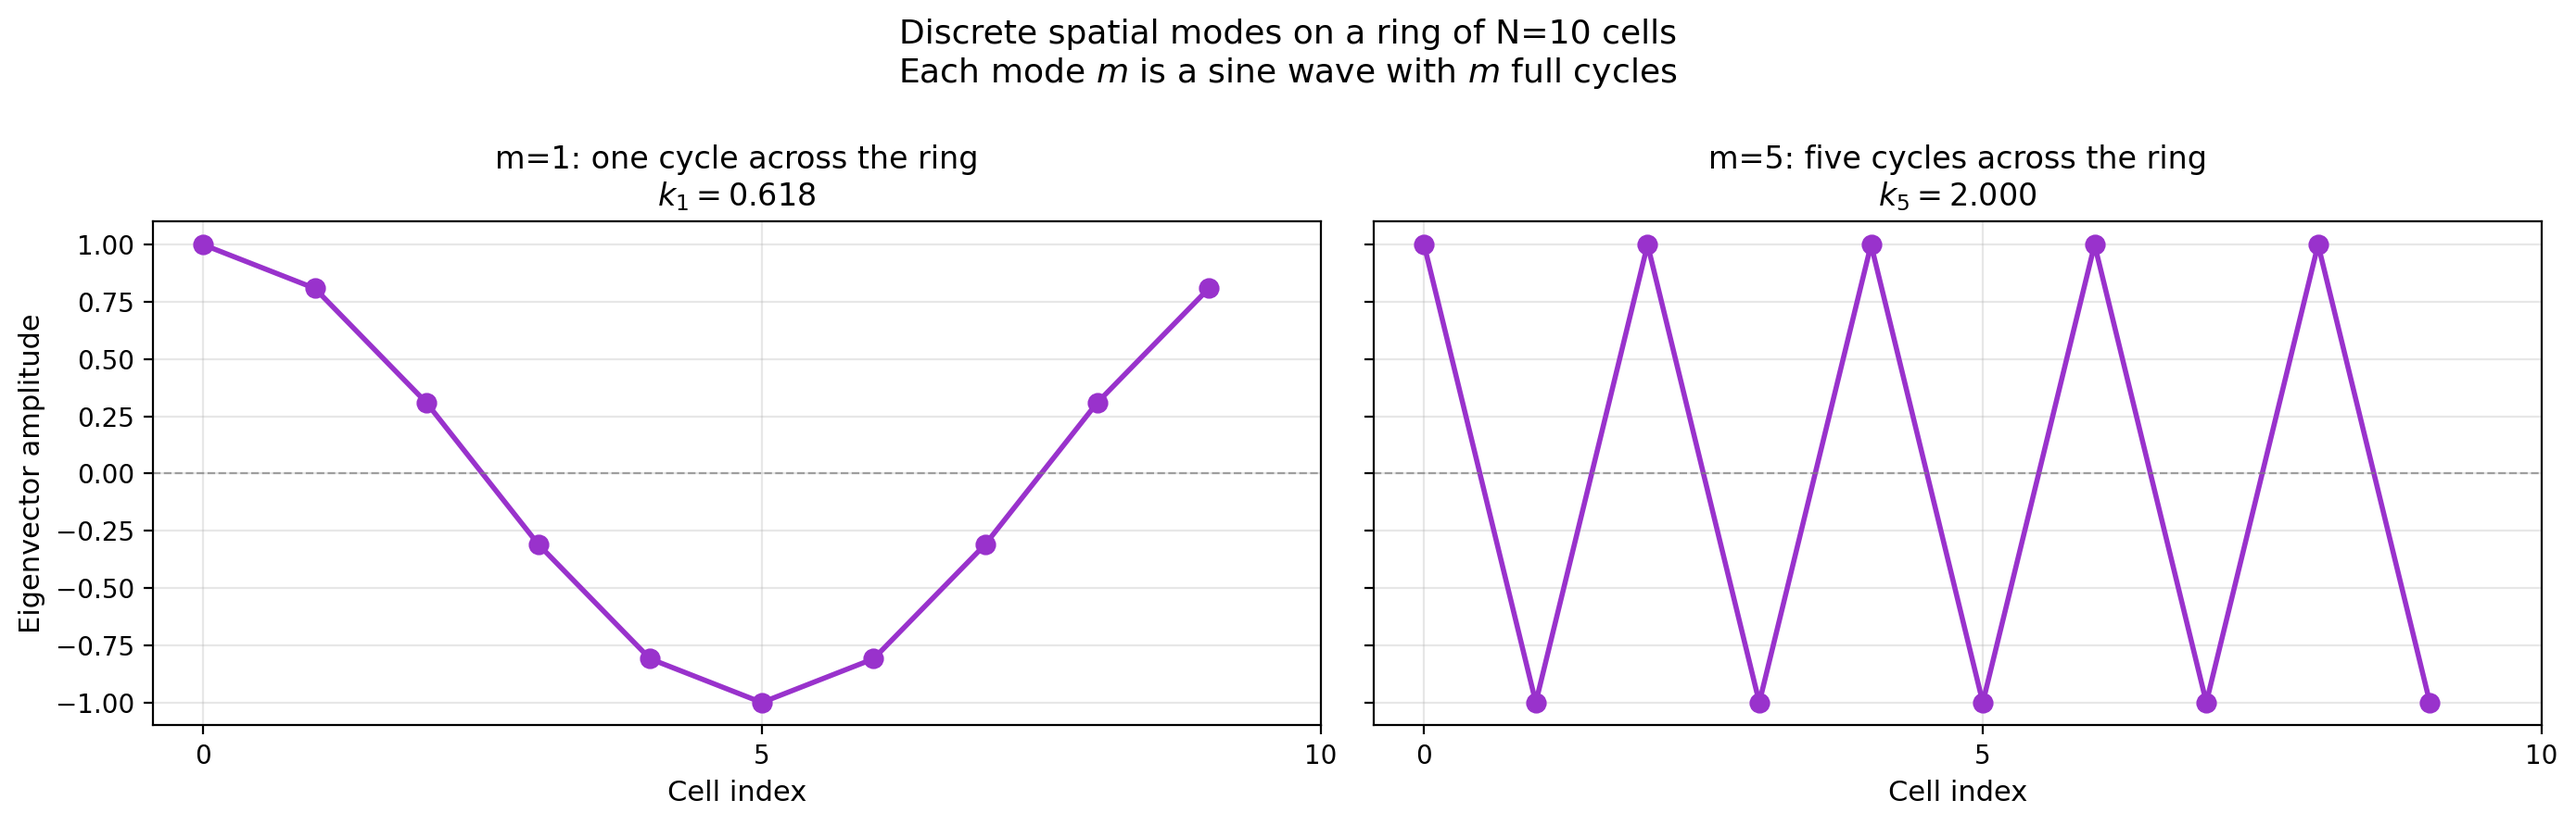
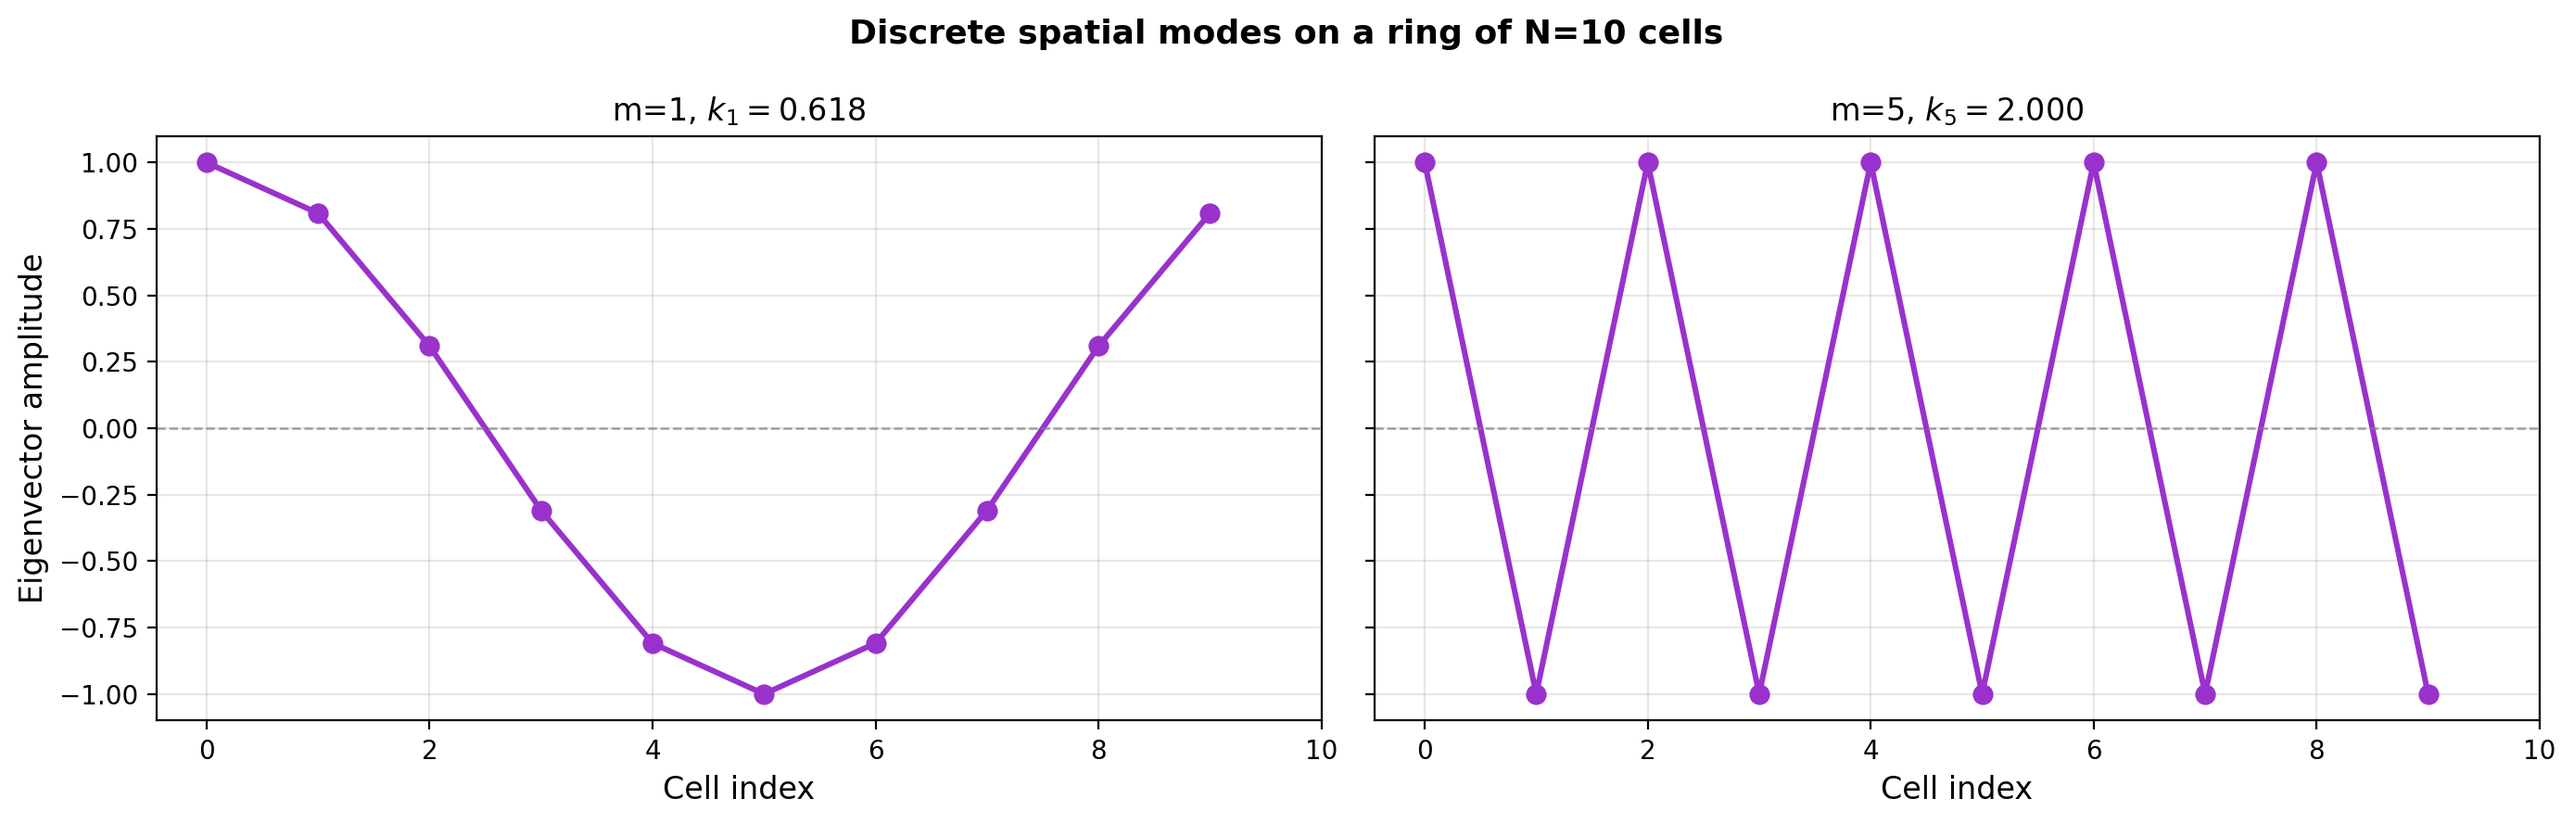
making the plots pretty

diff --git a/BiologicalRealism/sine_wave_mode.py b/BiologicalRealism/sine_wave_mode.py
@@ -16,28 +16,34 @@ fig, axes = plt.subplots(1, 2, figsize=(14, 4.5), sharey=True)
 
 # --- Left: m=1 ---
 ax = axes[0]
-ax.plot(cells, mode_1, 'o-', color='darkorchid', linewidth=2, markersize=7)
-ax.axhline(0, color='gray', linewidth=0.8, linestyle='--', alpha=0.7)
-ax.set_xlabel('Cell index', fontsize=11)
-ax.set_ylabel('Eigenvector amplitude', fontsize=11)
-ax.set_title(f'm=1: one cycle across the ring\n$k_1 = {k_1:.3f}$', fontsize=12)
+ax.plot(cells, mode_1, 'o-', color='darkorchid', linewidth=2.2, markersize=7)
+ax.axhline(0, color='gray', linewidth=0.9, linestyle='--', alpha=0.7)
+ax.set_xlabel('Cell index', fontsize=12)
+ax.set_ylabel('Eigenvector amplitude', fontsize=12)
+ax.set_title(f'm=1, $k_1 = {k_1:.3f}$', fontsize=12)
 ax.grid(alpha=0.3)
-ax.set_xticks(np.arange(0, N + 1, 5))
+ax.set_xticks(np.arange(0, N + 1, 2))
 
 # --- Right: m=5 ---
 ax = axes[1]
-ax.plot(cells, mode_5, 'o-', color='darkorchid', linewidth=2, markersize=7)
-ax.axhline(0, color='gray', linewidth=0.8, linestyle='--', alpha=0.7)
-ax.set_xlabel('Cell index', fontsize=11)
-ax.set_title(f'm=5: five cycles across the ring\n$k_5 = {k_5:.3f}$',
-             fontsize=12)
+ax.plot(cells, mode_5, 'o-', color='darkorchid', linewidth=2.2, markersize=7)
+ax.axhline(0, color='gray', linewidth=0.9, linestyle='--', alpha=0.7)
+ax.set_xlabel('Cell index', fontsize=12)
+ax.set_title(f'm=5, $k_5 = {k_5:.3f}$',fontsize=12)
 ax.grid(alpha=0.3)
-ax.set_xticks(np.arange(0, N + 1, 5))
+ax.set_xticks(np.arange(0, N + 1, 2))
 
+# fig.suptitle(
+#     f'Discrete spatial modes on a ring of N={N} cells\n'
+#     f'Each mode $m$ is a sine wave with $m$ full cycles',
+#     fontsize=12, fontweight='semibold' 
+# )
+
+# 1. Add the main title
 fig.suptitle(
-    f'Discrete spatial modes on a ring of N={N} cells\n'
-    f'Each mode $m$ is a sine wave with $m$ full cycles',
+    f'Discrete spatial modes on a ring of N={N} cells', 
     fontsize=13, 
+    fontweight='semibold'
 )
 
 plt.tight_layout()
